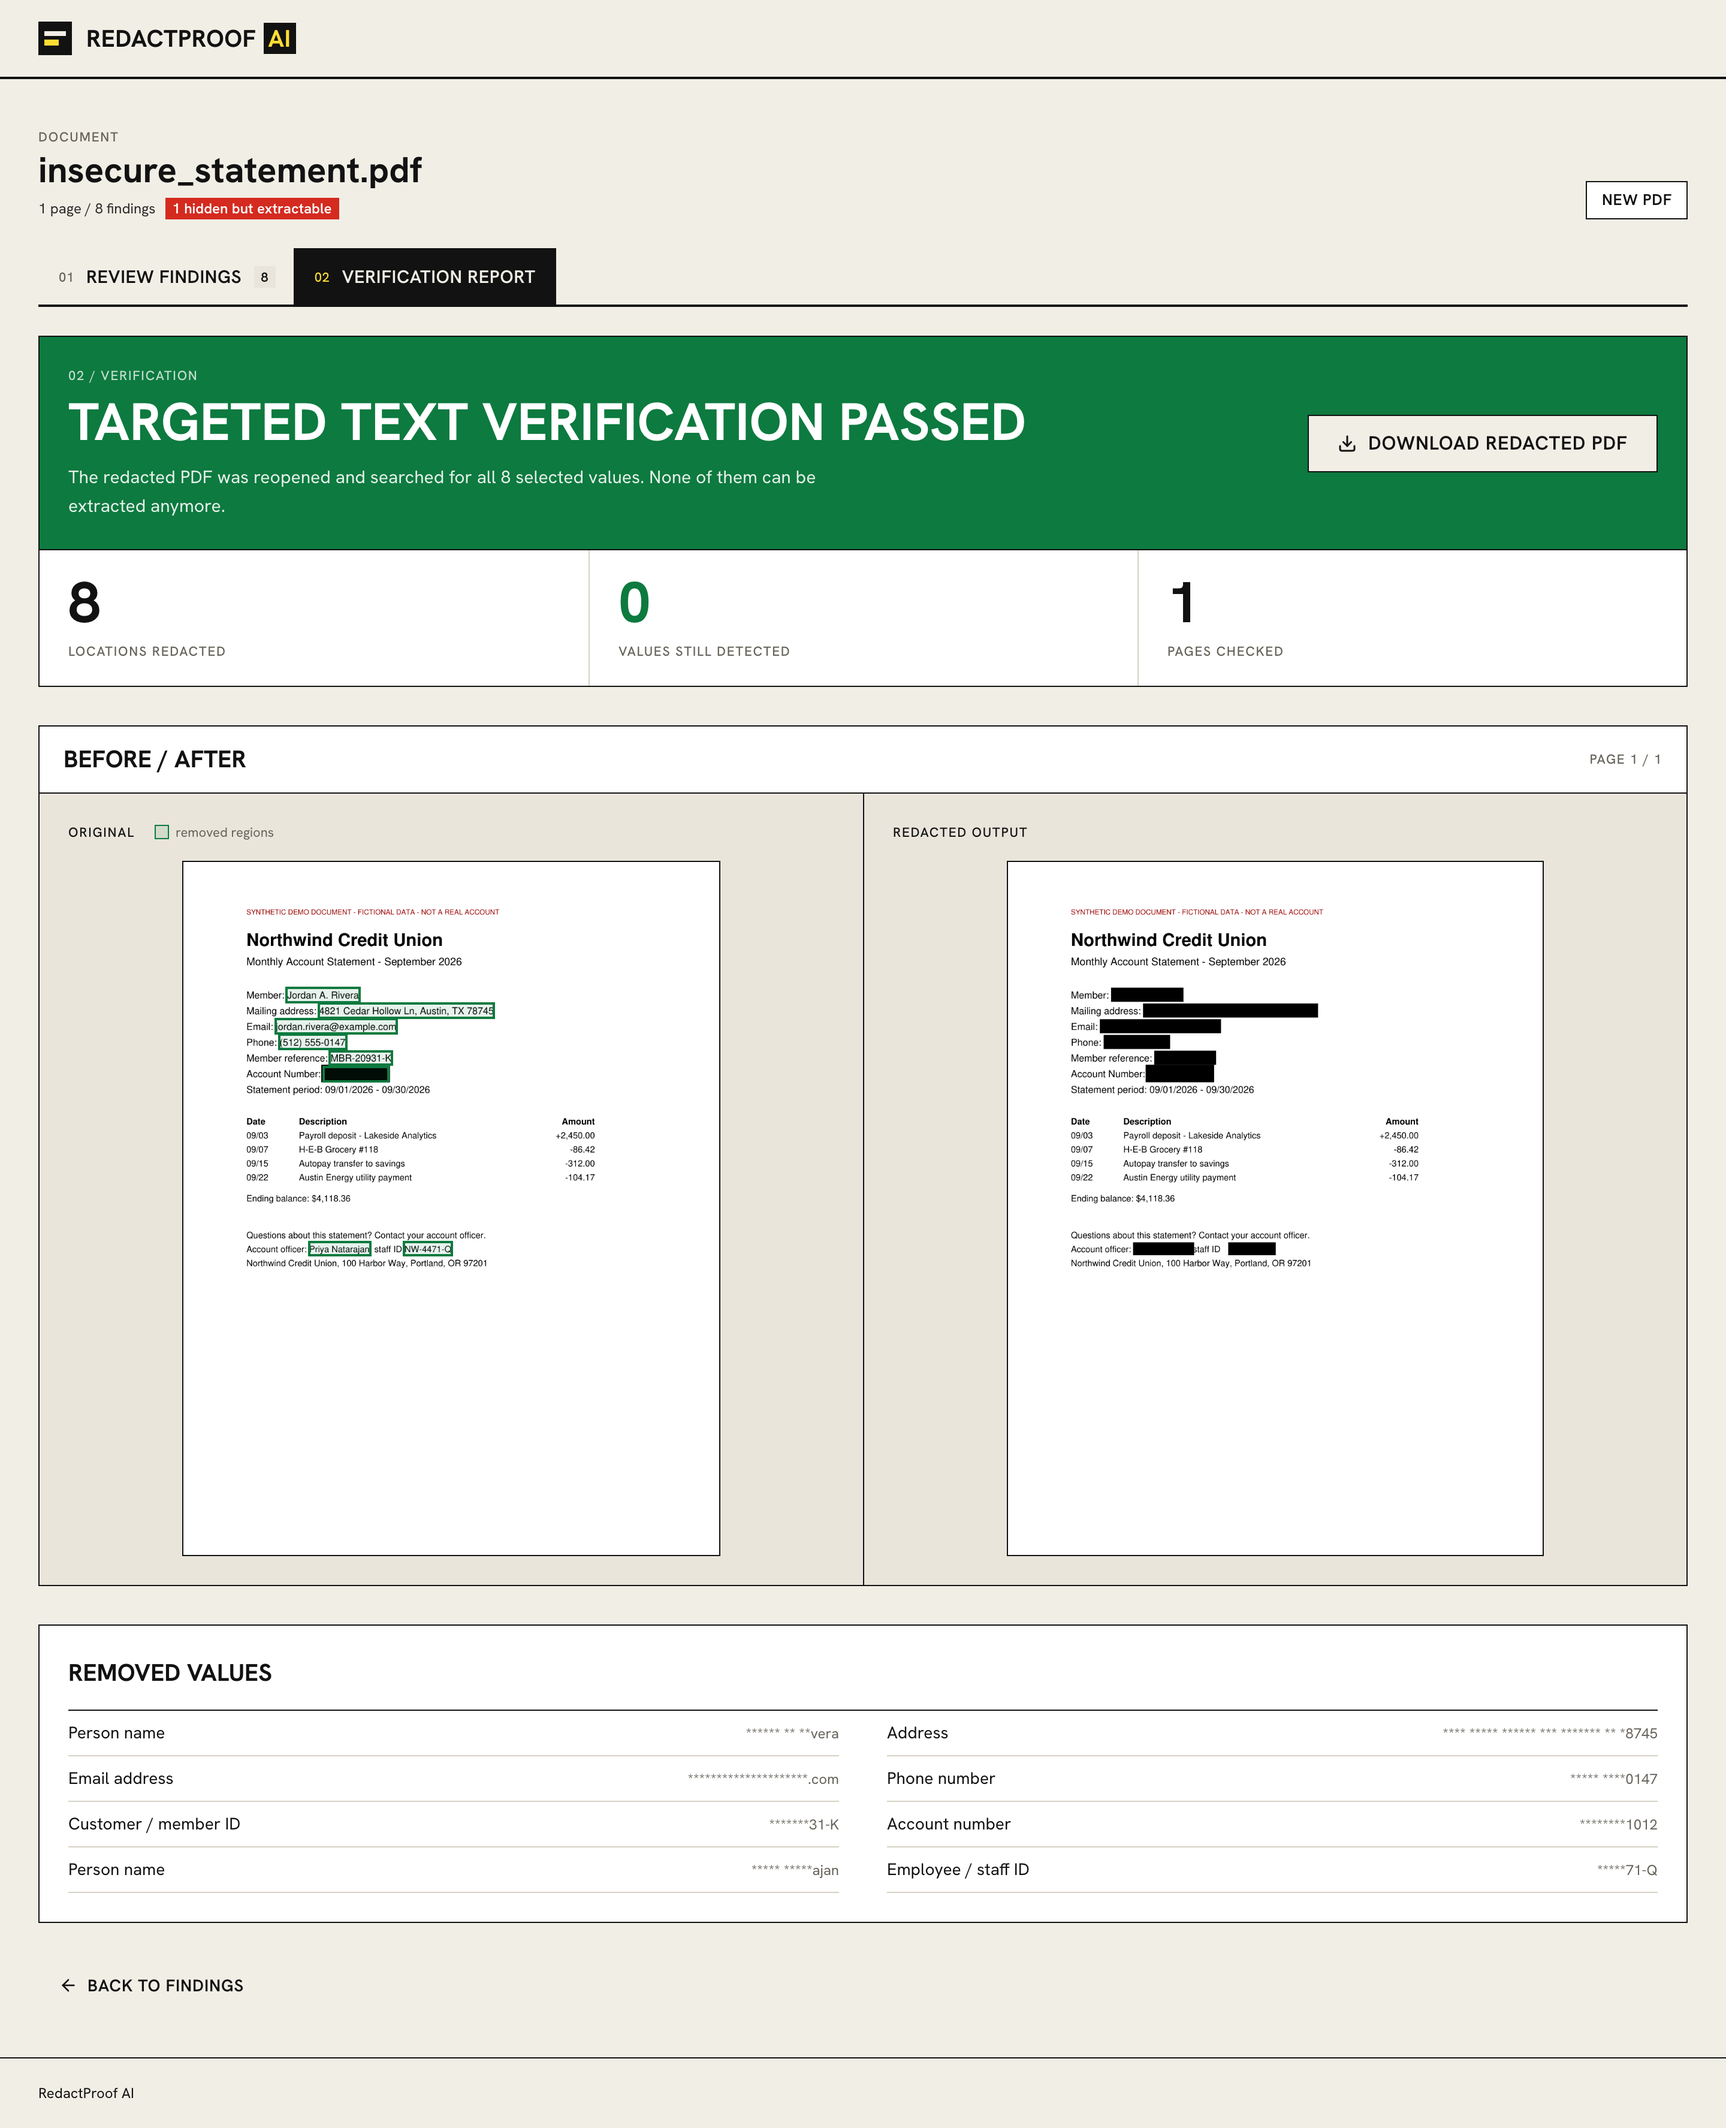
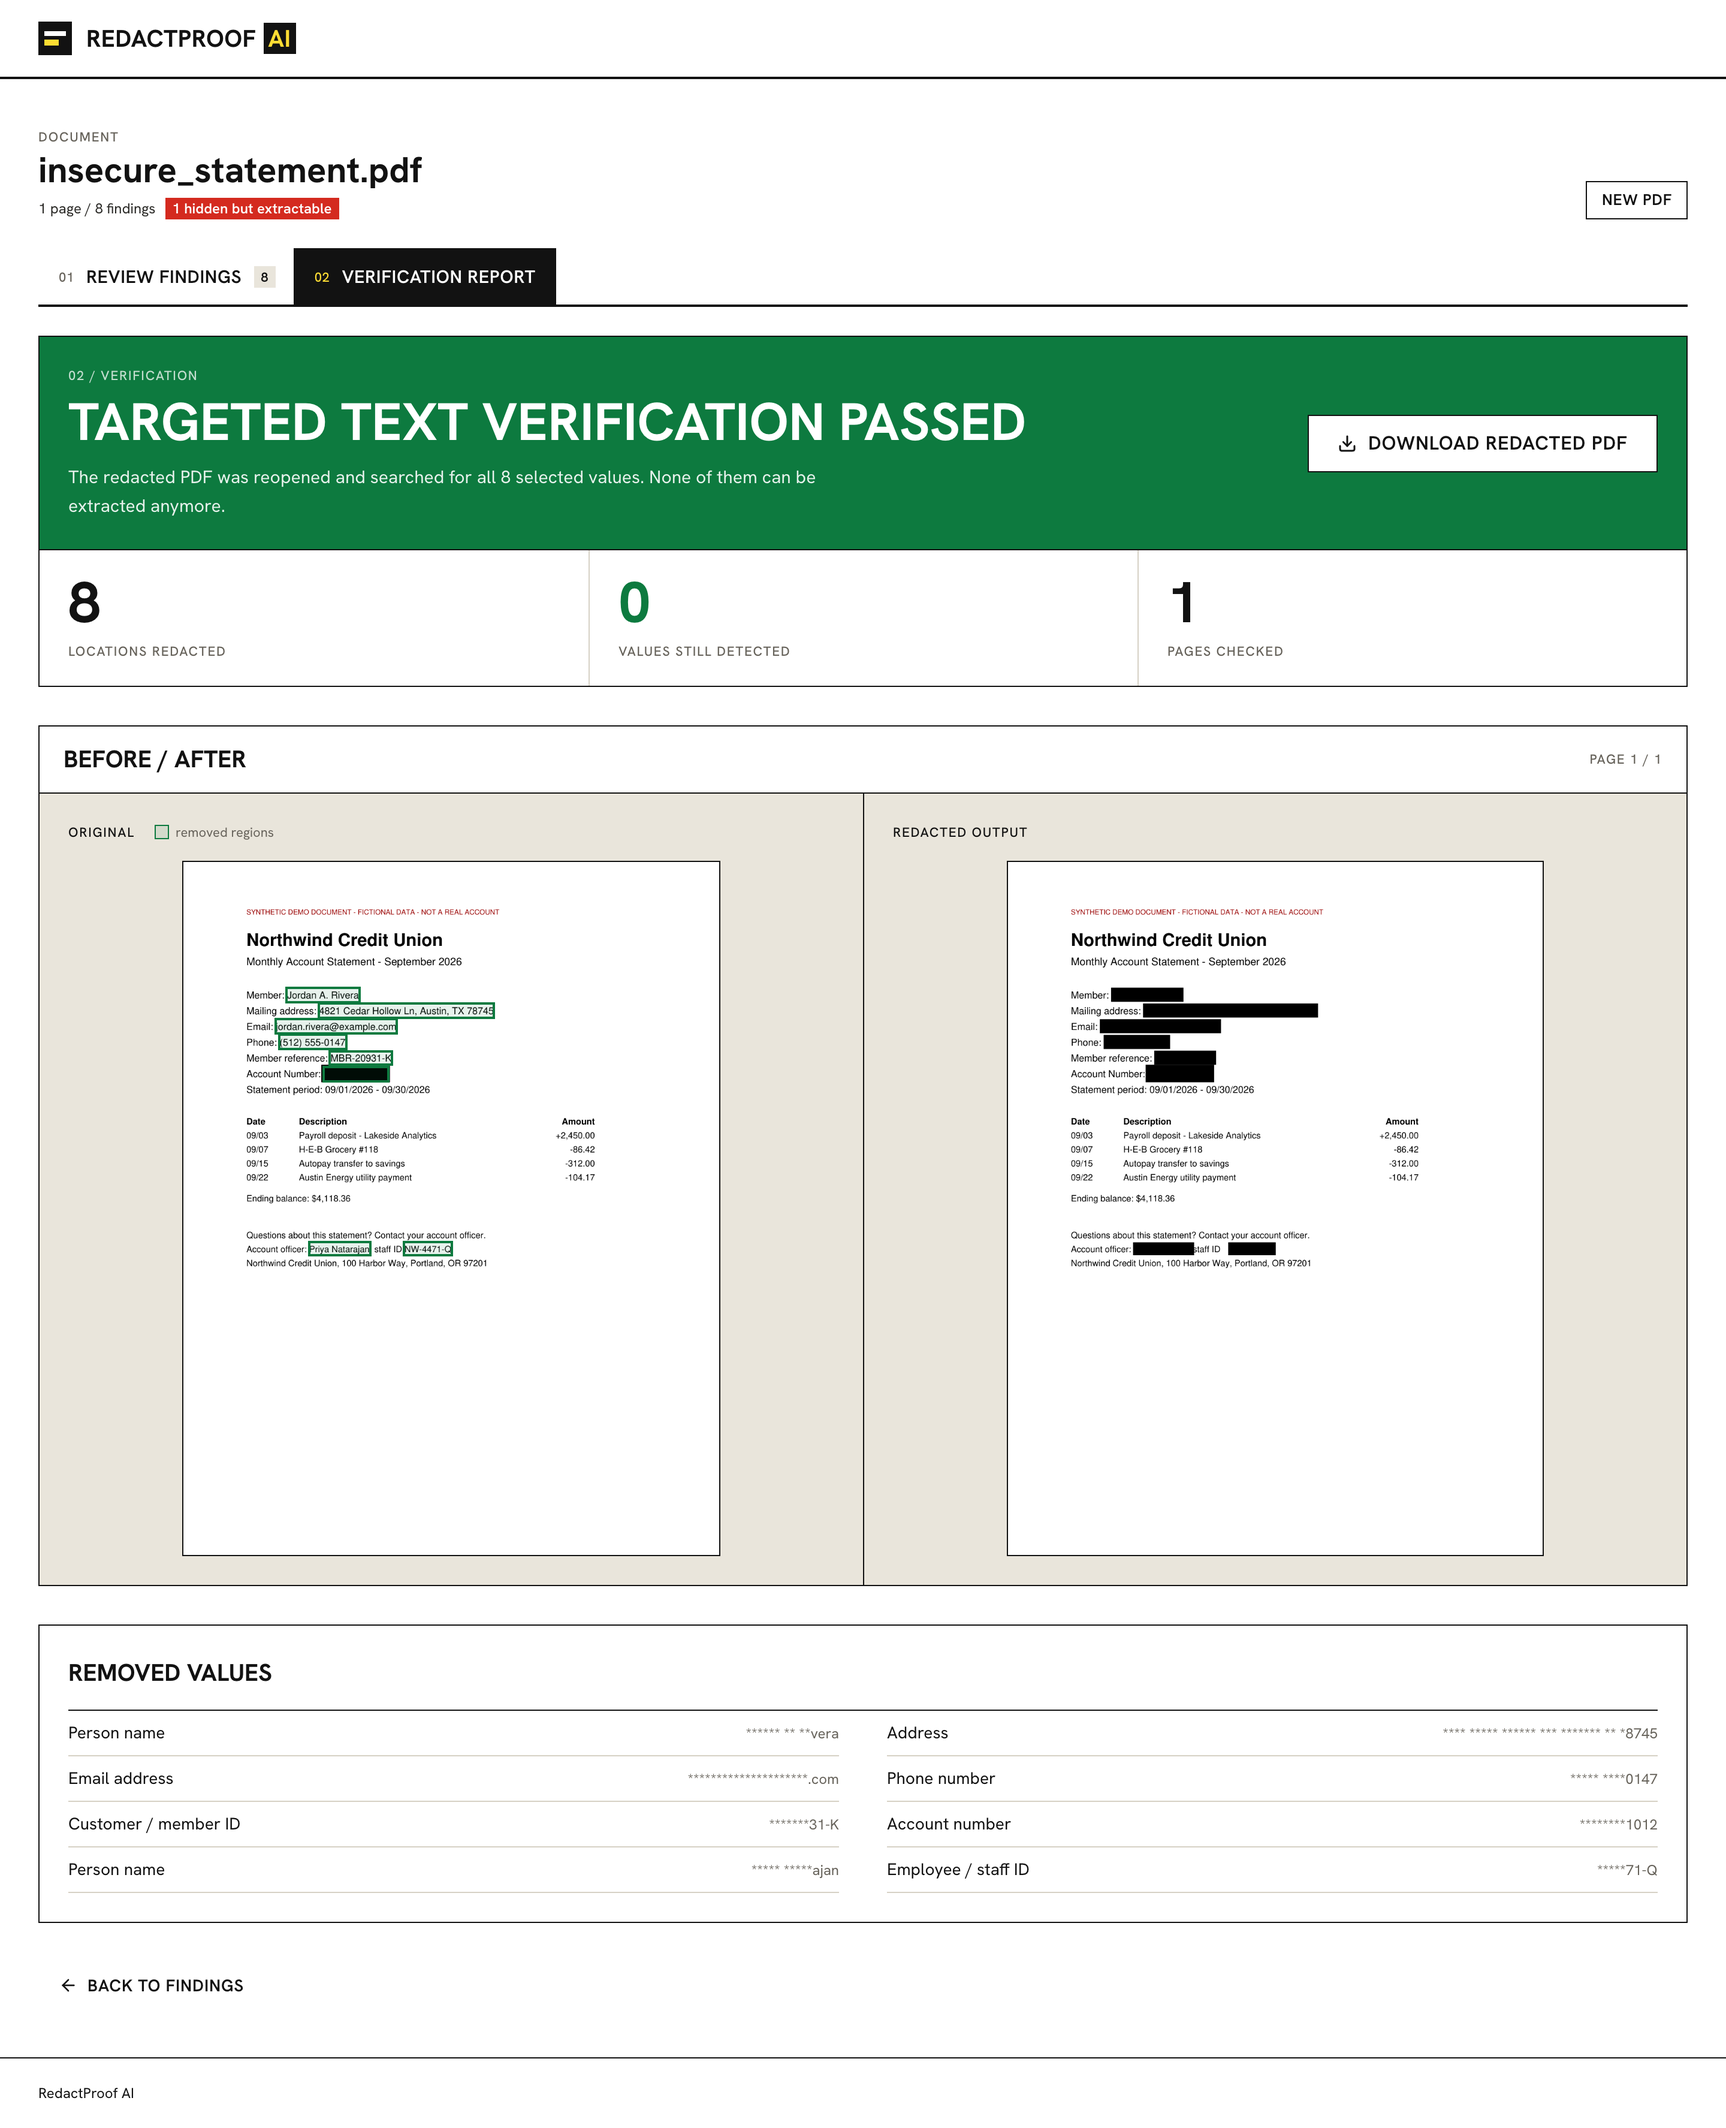
Make the page background white

diff --git a/frontend/src/index.css b/frontend/src/index.css
@@ -17,7 +17,7 @@
   --font-mono: var(--font-sans);
 
   /* Paper and ink */
-  --color-paper: #f1eee6;
+  --color-paper: #ffffff;
   --color-surface: #ffffff;
   --color-surface-2: #f8f6f1;
   --color-surface-3: #e9e5db;
